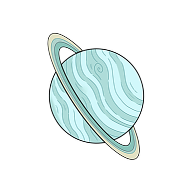
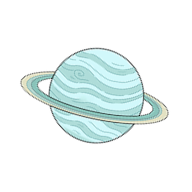
Kleine Änderungen

Changed region(s): [[0.0938, 0.1562, 0.9062, 0.8438]]

diff --git a/src/pages/HomePage/HomePage.css b/src/pages/HomePage/HomePage.css
@@ -1,12 +1,18 @@
 .home-page {
-  padding: 2rem;
+  background-image: url("../../assets/Homepage/background.svg");
+  background-size: cover;
+  background-position: center;
+  background-repeat: no-repeat;
+  position: relative;
   height: 100vh;
   overflow: hidden;
-  position: relative;
 }
 
 .home-page__intro {
-  max-width: 600px;
+  position: relative;
+  width: 100%;
+  height: 100%;
+  max-width: none;
 }
 
 .home-page__intro p {
@@ -17,15 +23,6 @@
   margin-top: 1.5rem;
   padding: 0.5rem 1rem;
   cursor: pointer;
-}
-
-.background {
-  position: absolute;
-  inset: 0;
-  width: 100%;
-  height: 100%;
-  object-fit: cover;
-  z-index: 0;
 }
 
 .title{
@@ -170,6 +167,8 @@
   z-index: 1;
   transform:translateX(-50%);
   animation: float 4s ease-in-out infinite;
+  will-change: transform;
+  backface-visibility: hidden;
 }
 
 .neptun{
@@ -203,15 +202,15 @@
     }
 }
 
-@keyframes float{
+@keyframes float {
   0% {
-      transform: translateX(-50%) translateY(0px);
+    transform: translate3d(-50%, 0, 0);
   }
   50% {
-      transform: translateX(-50%) translateY(-10px);
+    transform: translate3d(-50%, -10px, 0);
   }
   100% {
-      transform: translateX(-50%) translateY(0px);
+    transform: translate3d(-50%, 0, 0);
   }
 }
 

diff --git a/src/pages/HomePage/HomePage.jsx b/src/pages/HomePage/HomePage.jsx
@@ -1,7 +1,6 @@
 import "./HomePage.css";
 import { useEffect } from "react";
 import { gsap } from "gsap";
-import background from "../../assets/Homepage/background.svg";
 import title from "../../assets/Homepage/title.svg";
 import text_openBook from "../../assets/Homepage/text_openBook.png";
 import fleck from "../../assets/Homepage/fleck.png";
@@ -36,7 +35,6 @@ function HomePage({ onStart, onGoLosbuch }) {
     <main className="home-page">
       <section className="home-page__intro">
 
-      <img className="background" src={background} alt="Hintergrund"/>
       <img className="title" src={title} alt="Geomantia-Losbuch" />
       
       <div className="startButton" onClick={onGoLosbuch}>
@@ -58,15 +56,7 @@ function HomePage({ onStart, onGoLosbuch }) {
       <img className="uranus" src={uranus} alt="uranus" />
       <img className="neptun" src={neptun} alt="neptun" />
 
-        <h1>Geomantia-Losbuch</h1>
 
-        <p>
-          Eine digitale Losbuch-Erfahrung nach Peter Jordan.
-        </p>
-
-        <button type="button" onClick={onStart}>
-          Los starten
-        </button>
       </section>
     </main>
   );

diff --git a/src/pages/TransitionPage/TransitionPage.jsx b/src/pages/TransitionPage/TransitionPage.jsx
@@ -15,8 +15,15 @@ function TransitionPage({ transitionOut }) {
                               so wendet der Zufall die Zeichen. Betrachte nicht allein die Zahl,
                               sondern schaue das Verborgene dahinter. Denn nicht das Buch 
                               entscheidet dein Schicksal, sondern der Geist, der die Zeichen zu 
-                              deuten weiß.   <p>- Heinrich Cornelius Agrippa.</p></div>
+                              deuten weiß.   
+        </div>
+
+        <div className="zitat">- Heinrich Cornelius Agrippa von Nettersheim
+        </div>
+
       </div>
+
+      
     );
   }
   

diff --git a/src/pages/TransitionPage/TransitionPage.css b/src/pages/TransitionPage/TransitionPage.css
@@ -17,6 +17,29 @@
   
     animation: fleckGrow 1s ease-out forwards;
   }
+
+  .zitat{
+    font-family: PT Serif;
+    font-weight: 400;
+    font-style: Italic;
+    font-size: 20px;
+    line-height: 130%;
+    letter-spacing: 0%;
+    position: absolute;
+    top: 60%;
+    left: 70%;
+    transform: translate(-50%, -50%);
+    width: 80%;
+    max-width: 800px;
+    color: white;
+    text-align: left;
+    z-index: 3;
+  
+    opacity: 0;
+  
+    animation: textAppear 1s ease forwards;
+    animation-delay: 2s;
+  }
   
   
   @keyframes fleckGrow {
